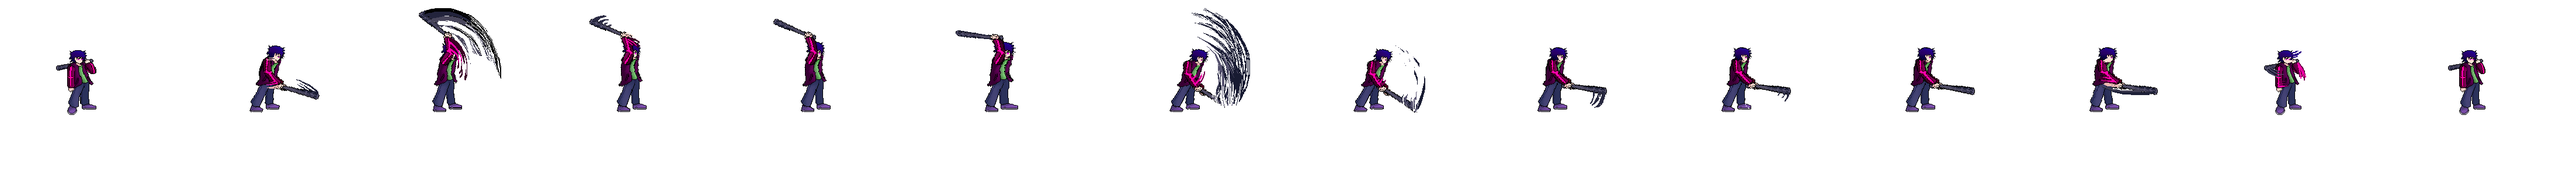
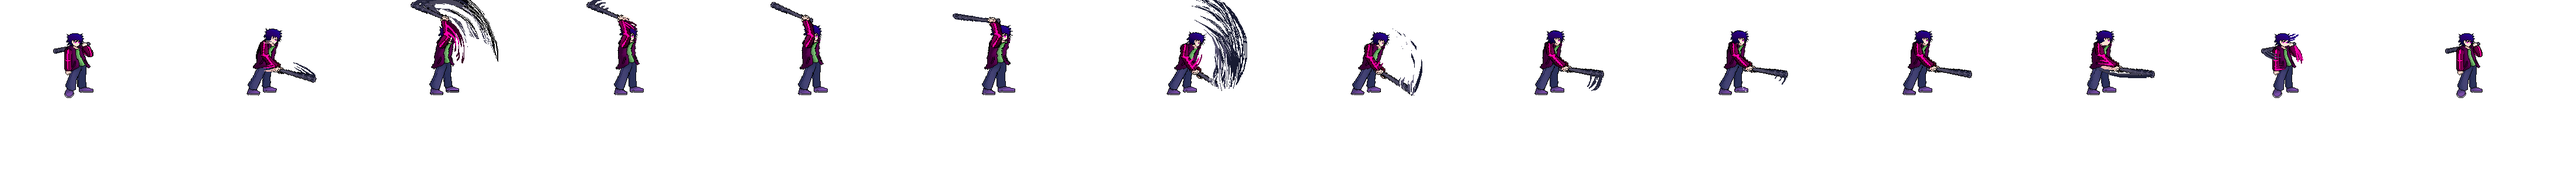
fixed the heavy animation, added basic music...

diff --git a/Scripts/CharacterSelect.cs b/Scripts/CharacterSelect.cs
@@ -1,0 +1,56 @@
+using Godot;
+using System;
+
+public partial class CharacterSelect : Node2D
+{
+	
+	[Export] protected internal bool selectedChar = false;
+	PackedScene sceneLoaderScene = (PackedScene)GD.Load("Scenes/map.tscn");
+	Timer moveToMapTimer;
+	PackedScene packedScene = new PackedScene();
+
+	// Called every frame. 'delta' is the elapsed time since the previous frame.
+	public override void _Process(double delta)
+	{
+		var charSelect = GetNode<Sprite2D>("BasicBackground/NotSelected");
+		var tohu = GetNode<Sprite2D>("BasicBackground/TohuSelected");
+		var sevenee = GetNode<Sprite2D>("BasicBackground/SeveneeSelected");
+		moveToMapTimer =  GetNode<Timer>("Timer");
+		var firstButton = GetNode<TouchScreenButton>("TohuSelect");
+		var secondButton = GetNode<TouchScreenButton>("NeeSelect");
+		
+		Node sceneInstance = sceneLoaderScene.Instantiate();
+		
+		
+		packedScene.Pack(sceneInstance);
+		
+		Node parentNode = GetParent();
+		if (Input.GetActionStrength("tohu") != 0)
+		{
+			secondButton.Visible = false;
+			firstButton.Visible = false;
+			charSelect.Visible = false;
+			tohu.Visible = true;
+			GD.Print("Entered");
+			moveToMapTimer.Start();
+			GD.Print("Exited");
+		}
+		else if(Input.GetActionStrength("sevenee") != 0){
+			secondButton.Visible = false;
+			firstButton.Visible = false;
+			charSelect.Visible = false;
+			sevenee.Visible = true;
+			GD.Print("Entered");
+			selectedChar = true;
+			moveToMapTimer.Start();
+			GD.Print("Exited");
+		}
+	}
+	private void _on_timer_timeout()
+	{
+		GetTree().ChangeSceneToPacked(packedScene);
+	}
+
+}
+
+

diff --git a/Scripts/EnemyCharacter.cs b/Scripts/EnemyCharacter.cs
@@ -38,7 +38,7 @@ public partial class EnemyCharacter : Godot.CharacterBody2D
 	
 	public override void _Process(double delta)
 	{
-		
+		areaDetection = GetNode<CollisionShape2D>("AreaDetection/TriggeredCollision");
 		this.Player = GetNode<AnimationPlayer>("AnimationPlayer");
 		Player.SpeedScale = 2;
 		HeavyHitbox = (CollisionShape2D)GetNode("Heavy_HitboxArea/Heavy_Hitbox");
@@ -46,10 +46,23 @@ public partial class EnemyCharacter : Godot.CharacterBody2D
 		LightHitbox = (CollisionShape2D)GetNode("Light_HitboxArea/Light_Hitbox");
 		PlayCharacterAnimation();
 	}
+
 	public override void _PhysicsProcess(double delta)
 	{
 		this._velocity = Velocity;
-		
+
+		GD.Print(GlobalPosition);
+		if (Position.Y >= 1000)
+		{
+			var position = new Vector2(Position.X, 380);
+			Position = position;
+		}
+
+		if (Position.X >= 2850)
+		{
+			var position = new Vector2(2700, Position.Y);
+			Position = position;
+		}
 		
 		if (!IsOnFloor())
 			_velocity.Y += Gravity * (float)delta;
@@ -85,7 +98,7 @@ public partial class EnemyCharacter : Godot.CharacterBody2D
 		if (WasDamaged)
 		{
 			GD.Print("hit");
-			areaDetection = GetNode<CollisionShape2D>("AreaDetection/TriggeredCollision");
+			
 			areaDetection.Disabled = true;
 			Player.Stop();
 			
@@ -110,6 +123,7 @@ public partial class EnemyCharacter : Godot.CharacterBody2D
 
 	private void Take_Damage(int damage, Vector2 knockback)
 	{
+		TriggerVibration();
 		_velocity = knockback;
 		var newPosition = Position;
 		newPosition.X += 20;

diff --git a/Scripts/MapSelection.cs b/Scripts/MapSelection.cs
@@ -15,6 +15,8 @@ public partial class MapSelection : Node2D
 		var mapSelect = GetNode<Sprite2D>("SelectionBG");
 		var mapOne = GetNode<Sprite2D>("MapOne");
 		var mapTwo = GetNode<Sprite2D>("MapTwo");
+		var firstButton = GetNode<TouchScreenButton>("MapOneSelect");
+		var secondButton = GetNode<TouchScreenButton>("MapTwoSelect");
 		mapChangeTimer =  GetNode<Timer>("Timer");
 		
 		Node sceneInstance = sceneLoaderScene.Instantiate();
@@ -25,13 +27,17 @@ public partial class MapSelection : Node2D
 		Node parentNode = GetParent();
 		if (Input.GetActionStrength("firstMap") != 0)
 		{
+			secondButton.Visible = false;
+			firstButton.Visible = false;
 			mapSelect.Visible = false;
 			mapOne.Visible = true;
 			GD.Print("Entered");
-			GetTree().ChangeSceneToPacked(packedScene);
+			mapChangeTimer.Start();
 			GD.Print("Exited");
 		}
 		else if(Input.GetActionStrength("secondMap") != 0){
+			secondButton.Visible = false;
+			firstButton.Visible = false;
 			mapSelect.Visible = false;
 			mapTwo.Visible = true;
 			GD.Print("Entered");

diff --git a/Scripts/MyHitbox.cs b/Scripts/MyHitbox.cs
@@ -5,7 +5,7 @@ namespace project_attempt.Scripts;
 public partial  class MyHitbox : Area2D
 {	
 	[Export] protected internal int Damage = 20;
-	[Export] protected internal Vector2 Knockback = new Vector2(165 , -60.5f);
+	[Export] protected internal Vector2 Knockback = new(165 , -60.5f);
 
 	private void Initialize()
 	{

diff --git a/Scripts/MyHurtbox.cs b/Scripts/MyHurtbox.cs
@@ -40,5 +40,4 @@ public partial class MyHurtbox : Area2D
 			Owner.Call("Take_Damage", hitbox.Damage, hitbox.Knockback);
 		}
 	}
-	
 }
